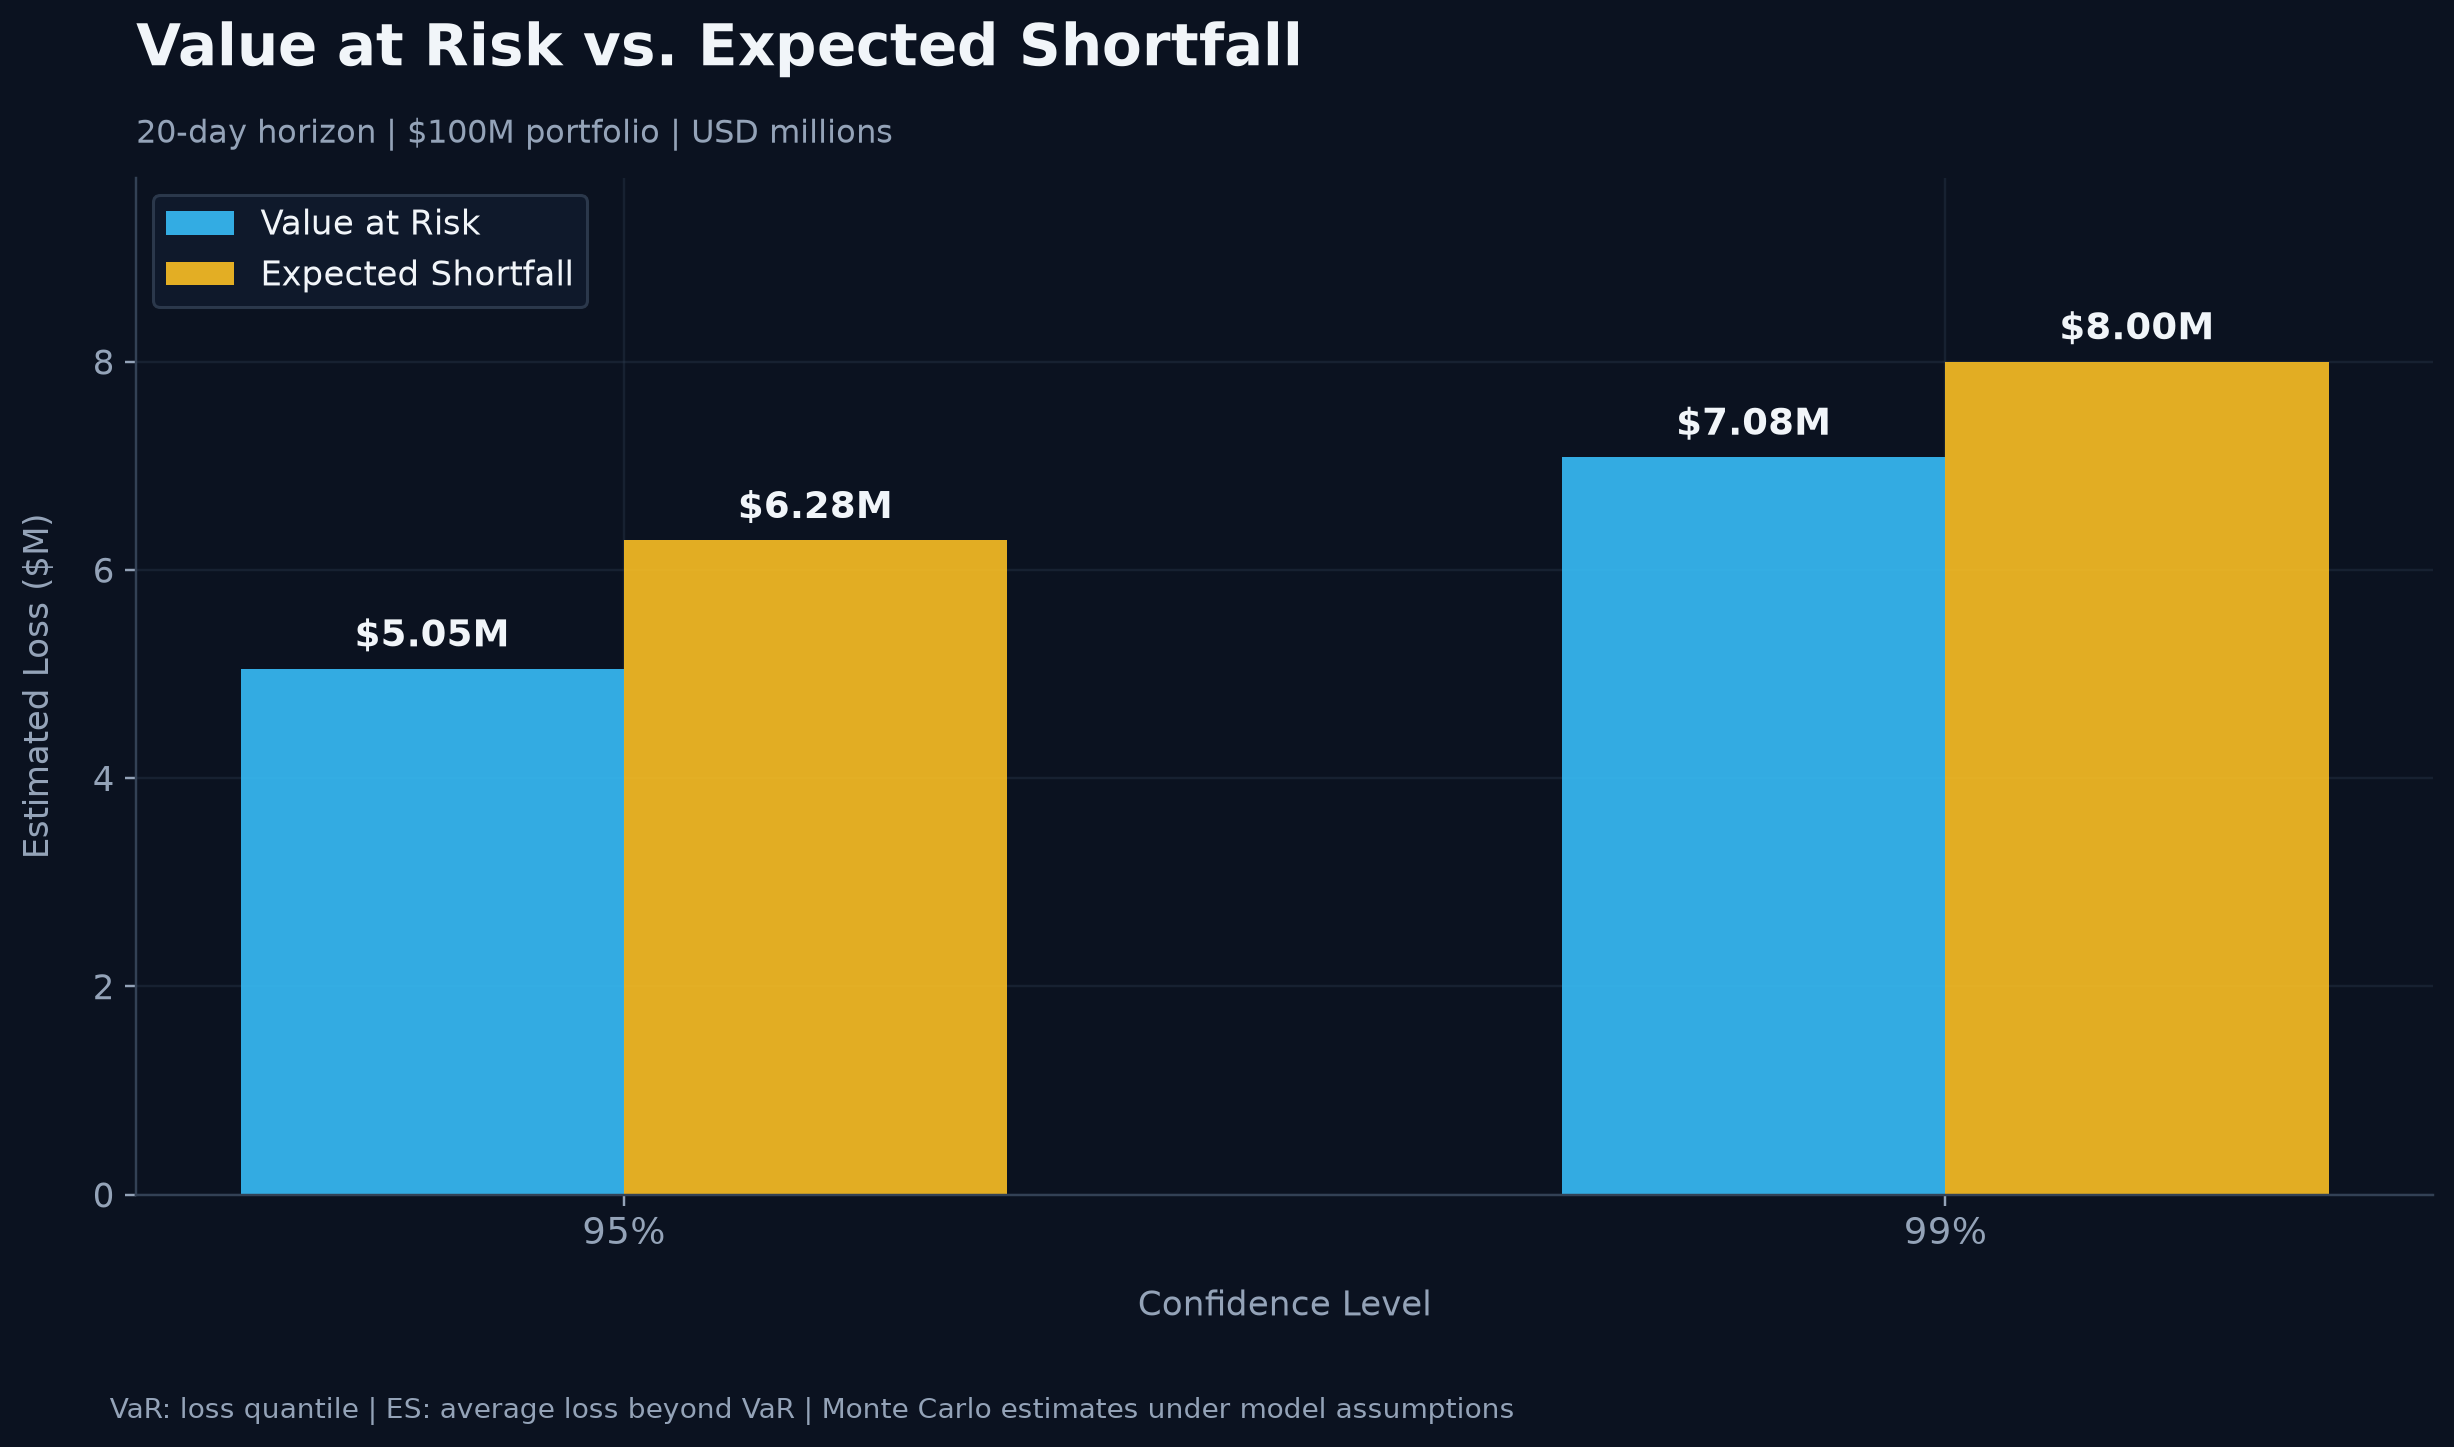
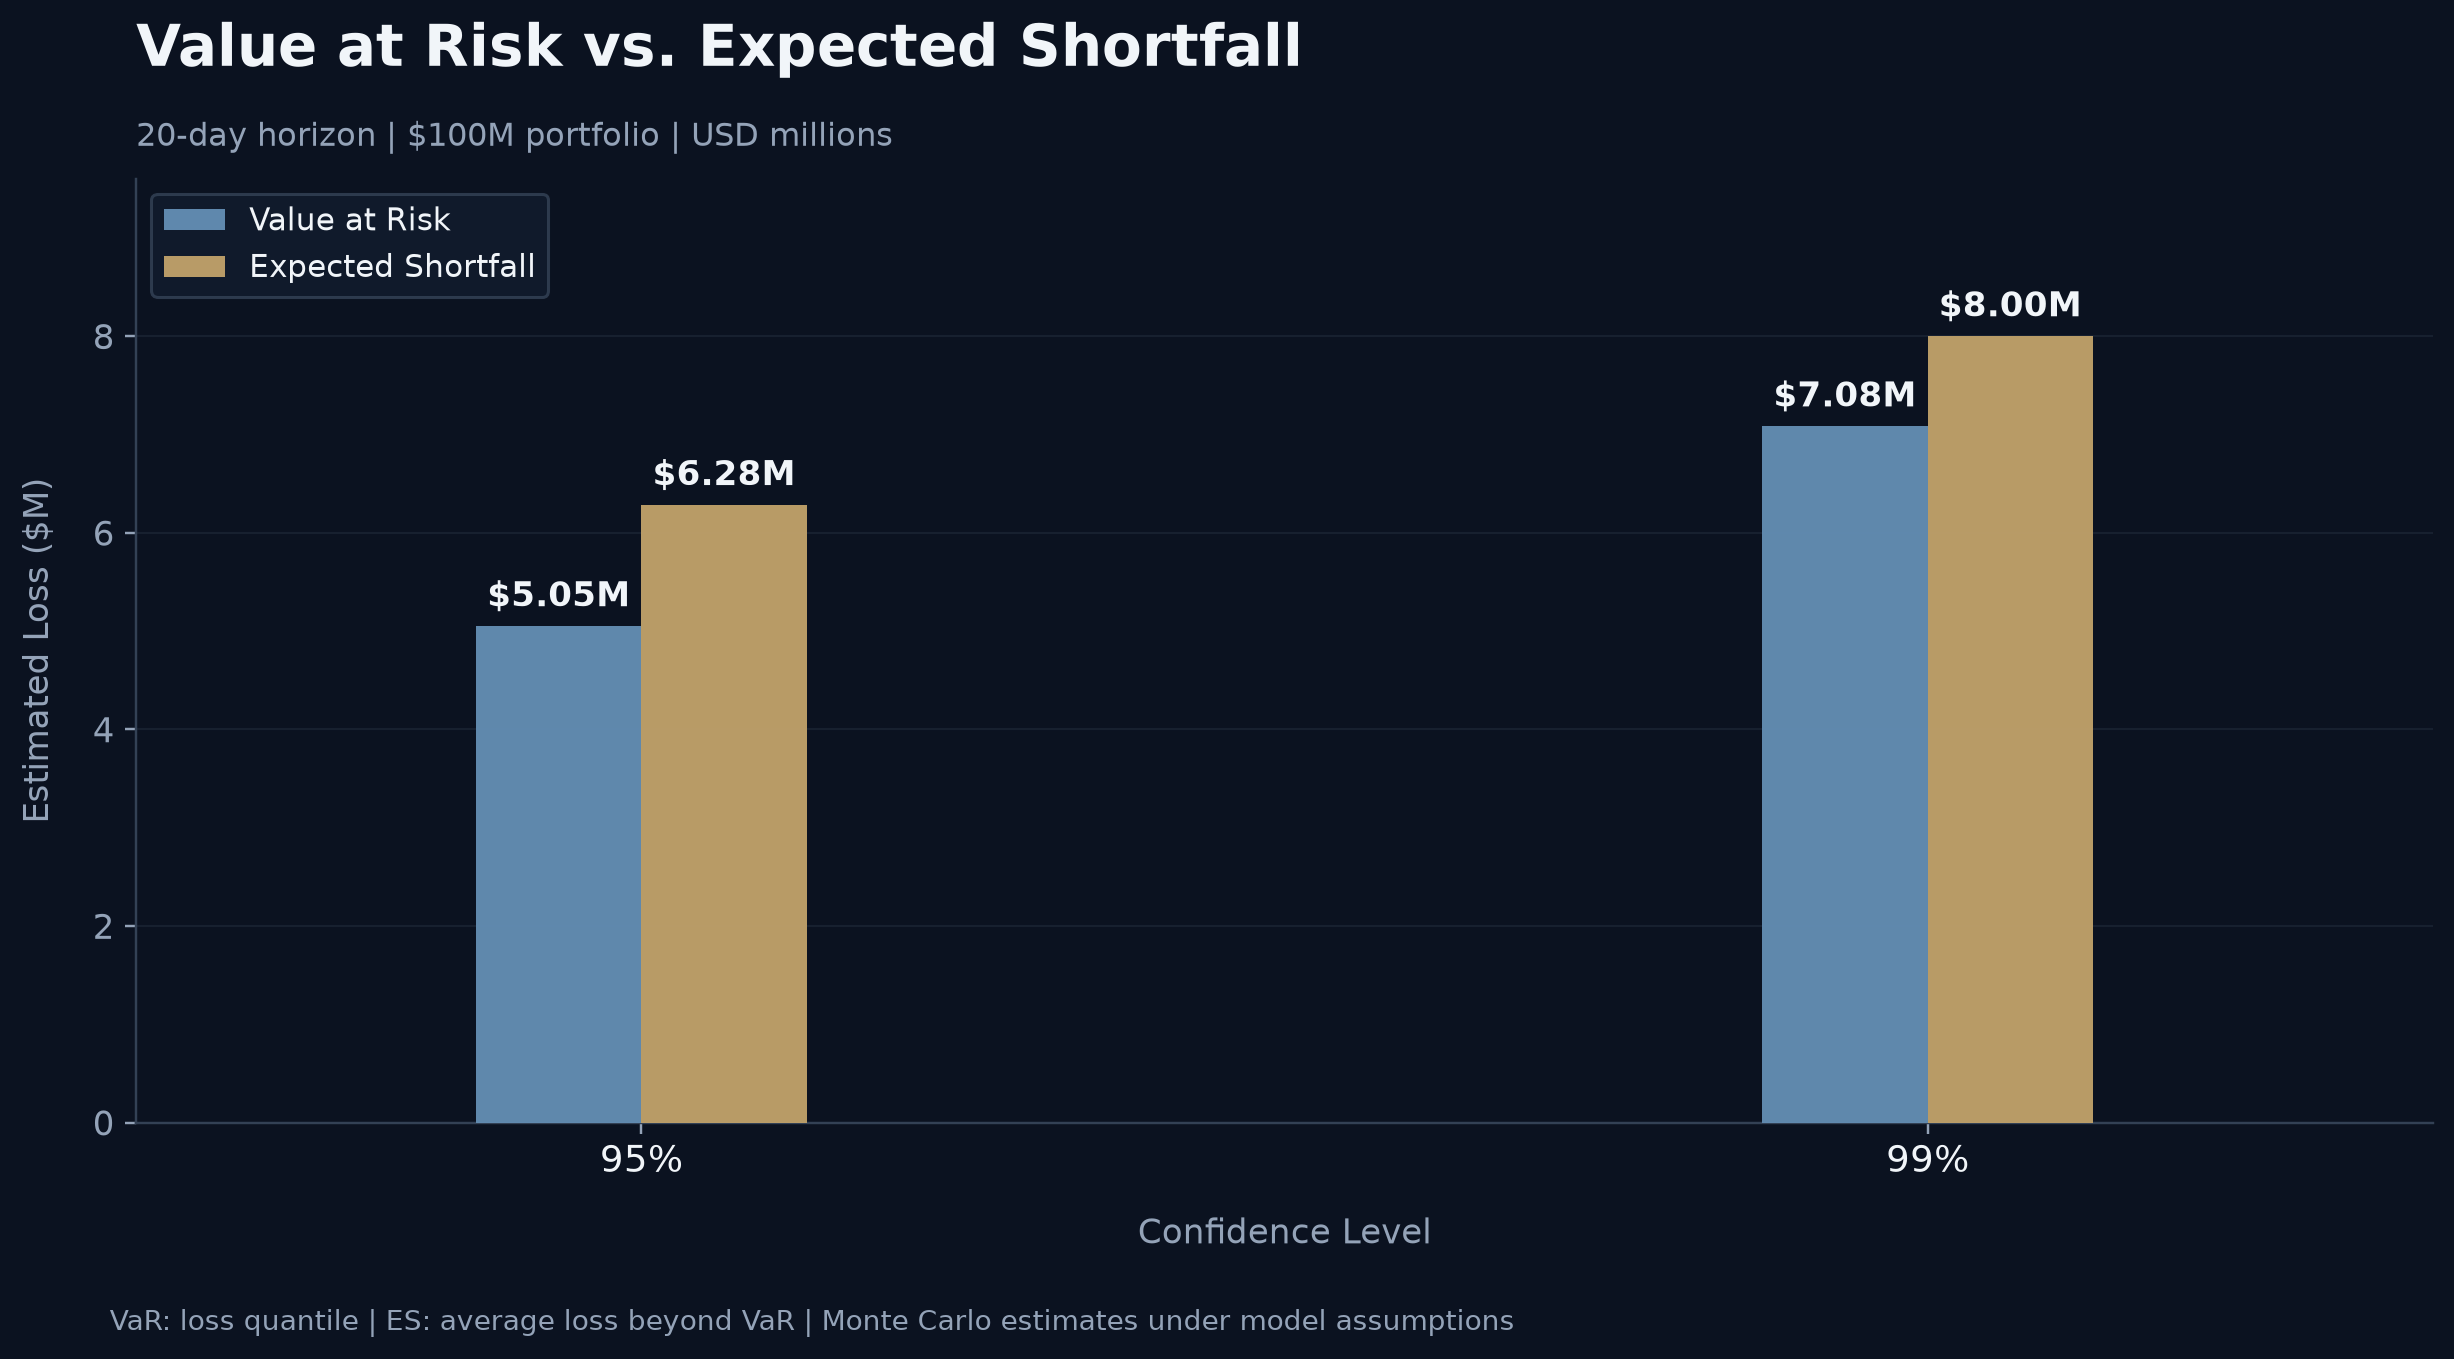
Refine VaR and Expected Shortfall visualization

diff --git a/01-portfolio-risk-simulation/visualize_monte_carlo.py b/01-portfolio-risk-simulation/visualize_monte_carlo.py
@@ -461,48 +461,61 @@ save_figure(
 # 5. Figure 05: VaR vs Expected Shortfall
 # --------------------------------------------------
 
-fig, ax = plt.subplots(figsize=(12, 7))
+# Refined institutional color palette
+VAR_COLOR = "#648FB5"   # Muted steel blue
+ES_COLOR = "#C2A36B"    # Muted gold
+
+fig, ax = plt.subplots(figsize=(12, 6.5))
 
 confidence = ["95%", "99%"]
-x = np.arange(len(confidence))
-bar_width = 0.29
 
+# Wider spacing between confidence groups
+x = np.array([0, 1.4])
+bar_width = 0.18
+
+# Use existing Monte Carlo risk estimates (USD millions)
 var_values = [var95, var99]
 es_values = [es95, es99]
 
+# VaR bars
 bars_var = ax.bar(
     x - bar_width / 2,
     var_values,
     width=bar_width,
-    color=BLUE,
+    color=VAR_COLOR,
     label="Value at Risk",
-    alpha=0.9,
+    alpha=0.95,
+    zorder=3,
 )
 
+# ES bars
 bars_es = ax.bar(
     x + bar_width / 2,
     es_values,
     width=bar_width,
-    color=AMBER,
+    color=ES_COLOR,
     label="Expected Shortfall",
-    alpha=0.9,
+    alpha=0.95,
+    zorder=3,
 )
 
+# Value labels
 for bars in [bars_var, bars_es]:
     for bar in bars:
         value = bar.get_height()
 
         ax.text(
             bar.get_x() + bar.get_width() / 2,
-            value + 0.13,
+            value + 0.12,
             f"${value:.2f}M",
             ha="center",
             va="bottom",
-            fontsize=12,
+            fontsize=11,
             fontweight="bold",
             color=TEXT,
         )
 
+# Header
 add_header(
     ax,
     "Value at Risk vs. Expected Shortfall",
@@ -511,23 +524,52 @@ add_header(
     "USD millions",
 )
 
+# Axis formatting
 ax.set_xticks(x)
-ax.set_xticklabels(confidence, fontsize=12)
-ax.set_xlabel("Confidence Level", labelpad=12)
-ax.set_ylabel("Estimated Loss ($M)", labelpad=12)
+ax.set_xticklabels(
+    confidence,
+    fontsize=12,
+    color=TEXT,
+)
 
-ax.set_ylim(0, max(es_values) * 1.22)
+ax.set_xlabel(
+    "Confidence Level",
+    labelpad=12,
+)
 
+ax.set_ylabel(
+    "Estimated Loss ($M)",
+    labelpad=12,
+)
+
+ax.set_xlim(-0.55, 1.95)
+ax.set_ylim(0, max(es_values) * 1.20)
+
+# Apply existing dark theme
 style_axis(ax)
 
+# Subtle horizontal gridlines
+ax.grid(
+    axis="y",
+    color=GRID,
+    alpha=0.30,
+    linewidth=0.7,
+)
+
+ax.grid(axis="x", visible=False)
+ax.set_axisbelow(True)
+
+# Legend
 ax.legend(
     loc="upper left",
     facecolor=PANEL,
     edgecolor=GRID,
     labelcolor=TEXT,
-    fontsize=11,
+    fontsize=10,
+    framealpha=0.85,
 )
 
+# Footer
 add_footer(
     fig,
     "VaR: loss quantile | "
@@ -535,6 +577,7 @@ add_footer(
     "Monte Carlo estimates under model assumptions",
 )
 
+# Layout
 fig.subplots_adjust(
     left=0.09,
     right=0.96,
@@ -542,9 +585,10 @@ fig.subplots_adjust(
     bottom=0.17,
 )
 
+# Save Figure 05
 save_figure(
     fig,
     "05_var_es_comparison.png",
 )
 
-print("\nAll three Monte Carlo figures generated.")
+print("\nFigure 05 updated successfully.")
